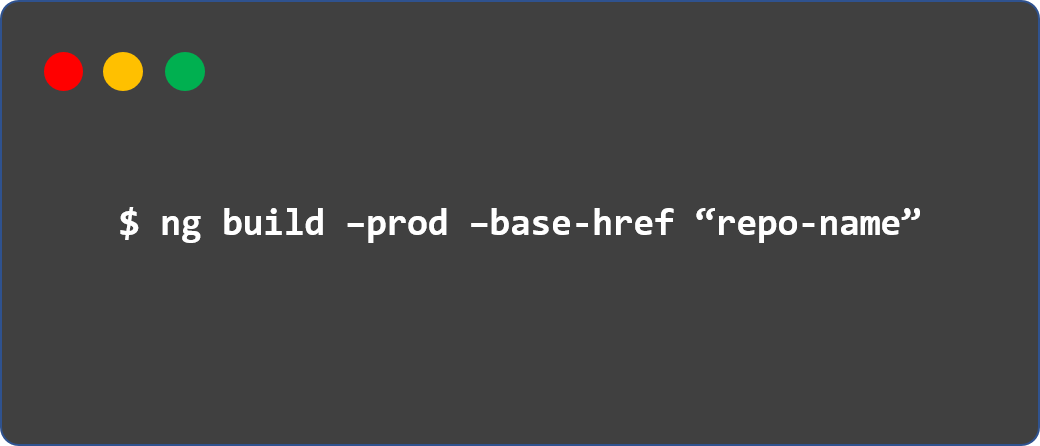
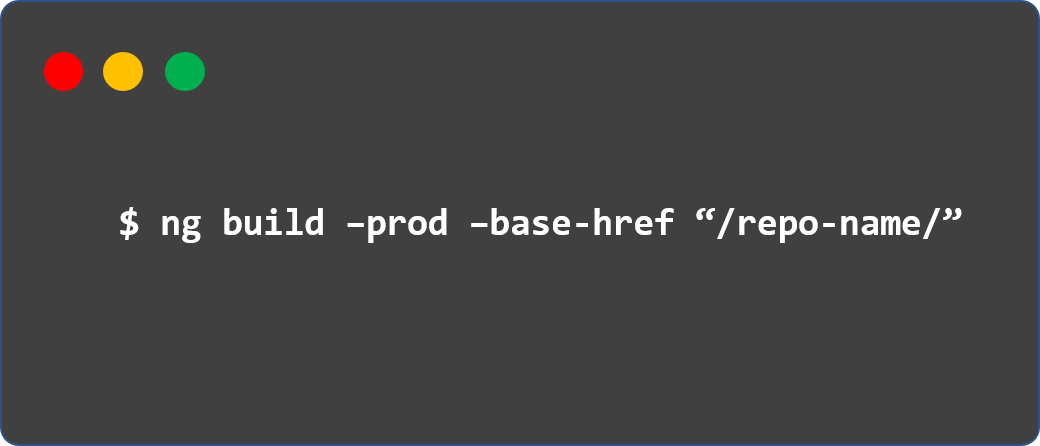
completed edits

Changed region(s): [[0.6769, 0.4664, 0.9231, 0.5538]]

diff --git a/src/app/deploy/deploy.component.html b/src/app/deploy/deploy.component.html
@@ -3,7 +3,7 @@
         <div class="card-body">
             <div class="text-justify">
                 <h3 class="display-4">Deploying Angular app in gh-pages
-                    </h3>
+                </h3>
                 <small>this page covers <u>#Angular</u>&nbsp;<u>#deploymnts</u> using <u>#gh-pages</u> for Angular
                     applications only</small>
             </div>
@@ -16,20 +16,23 @@
                     <code>static pages</code> for free and it is simple to use, just paste your files or commit to the
                     branch
                     and
-                    choose a desired branch to deploy securely now it is enforce HTTPS enabled, which provides a layer of
+                    choose a desired branch to deploy securely now it is enforce HTTPS enabled, which provides a layer
+                    of
                     encryption that prevents others from snooping on or tampering with traffic to your site.
                     When HTTPS is enforced, your site will only be served over <a
-                        href="https://help.github.com/en/github/working-with-github-pages/securing-your-github-pages-site-with-https" target="_blank">HTTPS</a>.
+                        href="https://help.github.com/en/github/working-with-github-pages/securing-your-github-pages-site-with-https"
+                        target="_blank">HTTPS</a>.
                 </p>
-                <p> We might already know <code>angular-cli</code> as a tool for Angular apps and what it can do. Here we use <a
-                        href="https://github.com/angular-schule/angular-cli-ghpages" target="_blank">
+                <p> We might already know <code>angular-cli</code> as a tool for Angular apps and what it can do. Here
+                    we use <a href="https://github.com/angular-schule/angular-cli-ghpages" target="_blank">
                         angular-cli-ghpages </a> to deploy <i class="fa fa-rocket" aria-hidden="true"></i> our Angular
                     application.</p>
 
                 <p>First get in to your project directory <code>cd yourProjectDirectory</code> then Install
                     <code>angular-cli-ghpages</code>&nbsp; -g means globally</p>
                 <div class="text-center m-5">
-                    <img src="../../assets/images/cmdone.png" alt="firstcmd" srcset="" style="width: 60%;">
+                    <img src="https://raw.githubusercontent.com/ng-model/ivy/dev/src/assets/images/cmdone.png"
+                        alt="firstcmd" srcset="" style="width: 60%;">
                 </div>
                 <!-- <div class="gatsby-highlight">
                 <pre class="language-html">
@@ -40,11 +43,13 @@
                 </div> -->
                 <p>Now use the angular-cli build cmd we use in angular application to produce target folder with
                     <code>--base-href flag</code> here <code>"repo-name"</code> should be
-                    <code>https://userName.github.io/yourRepoName/</code> cause that is where
-                    the app is available after it gets deployed <i class="fa fa-rocket" aria-hidden="true"></i> by the
-                    end of this tutorial.</p>
+                    <s><code>https://userName.github.io/yourRepoName/</code></s> <i class="fa fa-exclamation-triangle text-warning" aria-hidden="true"></i> only <code>/yourRepoName/</code> <i class="fa fa-check text-success" aria-hidden="true"></i> cause
+                    when the dist gets deployed, the index file looks for the assets and other files to render, so many
+                    other pages may have mentioned otherwise but trust me the pages will not reload properly, So follow the steps and by the
+                    end of this tutorial you will understand on your own.</p>
                 <div class="text-center m-5">
-                    <img src="../../assets/images/cmdtwo.png" alt="secondcmd" srcset="" style="width: 60%;">
+                    <img src="https://raw.githubusercontent.com/ng-model/ivy/dev/src/assets/images/cmdtwo.png"
+                        alt="secondcmd" srcset="" style="width: 60%;">
                 </div>
                 <!-- <pre>
                 <code class="language-c">
@@ -59,7 +64,8 @@
                         class="fa fa-github" aria-hidden="true"></i>
                     repository</p>
                 <div class="text-center m-5">
-                    <img src="../../assets/images/cmdthree.png" alt="thirdcmd" srcset="" style="width: 60%;">
+                    <img src="https://raw.githubusercontent.com/ng-model/ivy/dev/src/assets/images/cmdthree.png"
+                        alt="thirdcmd" srcset="" style="width: 60%;">
                 </div>
                 <!-- <pre>
                 <code class="language-javascript">
